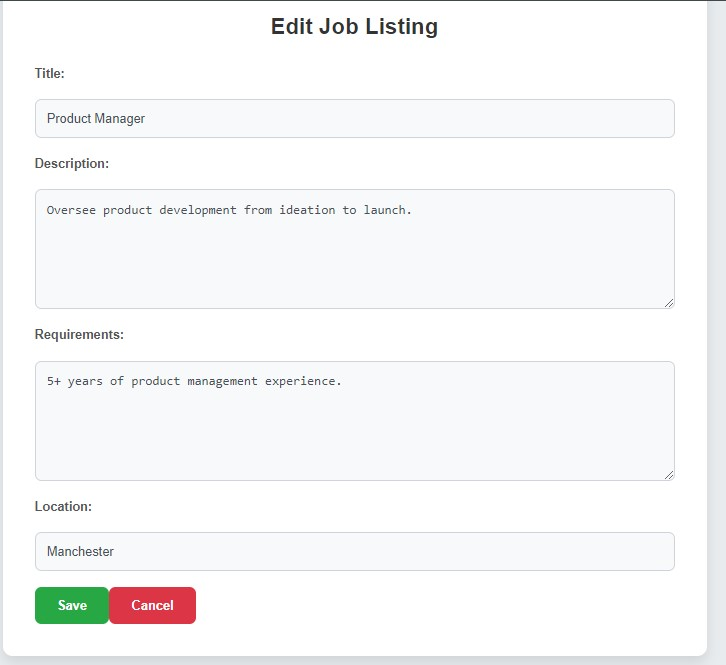
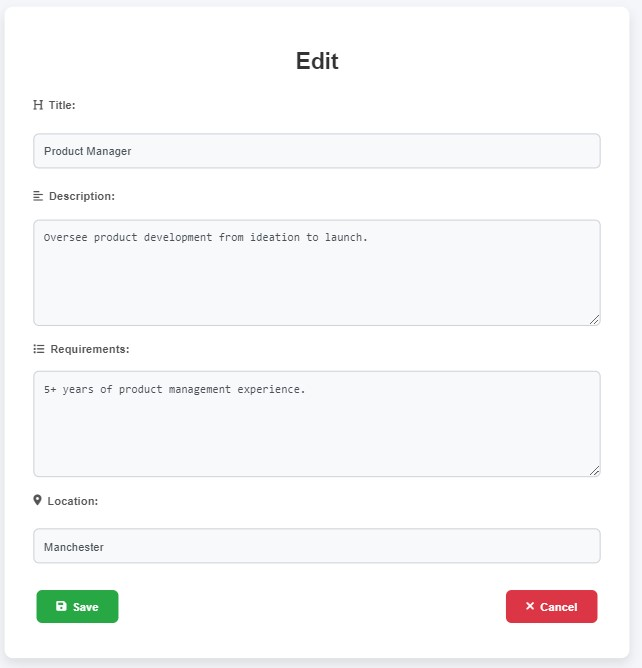
Updated the profile and Job Listing

diff --git a/frontend/src/components/JobListings/Edit_Job/EditJobListing.css b/frontend/src/components/JobListings/Edit_Job/EditJobListing.css
@@ -1,91 +1,118 @@
 /* General Styles */
 body {
-    font-family: 'Arial', sans-serif;
-    background-color: #e9ecef;
-    margin: 0;
-    padding: 0;
+  font-family: 'Arial', sans-serif;
+  background-color: #f4f6f9;
+  margin: 0;
+  padding: 0;
+}
+
+/* Container for the Edit Job Listing Form */
+.edit-job-listing-container {
+  padding: 40px;
+  max-width: 800px;
+  margin: 50px auto;
+  background-color: #ffffff;
+  border-radius: 12px;
+  box-shadow: 0 8px 16px rgba(0, 0, 0, 0.1);
+  animation: fadeIn 0.6s ease-out;
+}
+
+@keyframes fadeIn {
+  from {
+    opacity: 0;
   }
-  
-  /* Container for the Edit Job Listing Form */
-  .edit-job-listing-container {
-    padding: 40px;
-    max-width: 800px;
-    margin: 50px auto;
-    background-color: #ffffff;
-    border-radius: 12px;
-    box-shadow: 0 8px 16px rgba(0, 0, 0, 0.1);
+  to {
+    opacity: 1;
   }
-  
-  /* Title */
-  .edit-job-listing-container h1 {
-    font-size: 28px;
-    color: #333;
-    text-align: center;
-    margin-bottom: 30px;
-    font-weight: 700;
-  }
-  
-  /* Form Styles */
-  .edit-job-listing-form {
-    display: flex;
-    flex-direction: column;
-    gap: 20px;
-  }
-  
-  /* Labels */
-  .edit-job-listing-form label {
-    font-weight: 600;
-    color: #555;
-  }
-  
-  /* Input and Textarea */
-  .edit-job-listing-form input,
-  .edit-job-listing-form textarea {
-    padding: 14px;
-    border: 1px solid #ced4da;
-    border-radius: 8px;
-    width: 100%;
-    box-sizing: border-box;
-    font-size: 16px;
-    color: #495057;
-    background-color: #f8f9fa;
-  }
-  
-  /* Textarea Specific */
-  .edit-job-listing-form textarea {
-    min-height: 150px;
-    resize: vertical;
-  }
-  
-  /* Buttons */
-  .button {
-    padding: 14px 28px;
-    border: none;
-    border-radius: 8px;
-    cursor: pointer;
-    font-size: 16px;
-    font-weight: 600;
-    transition: background-color 0.3s ease, transform 0.3s ease;
-  }
-  
-  .save-button {
-    background-color: #28a745;
-    color: #fff;
-  }
-  
-  .cancel-button {
-    background-color: #dc3545;
-    color: #fff;
-  }
-  
-  /* Button Hover Effects */
-  .save-button:hover {
-    background-color: #218838;
-    transform: scale(1.02);
-  }
-  
-  .cancel-button:hover {
-    background-color: #c82333;
-    transform: scale(1.02);
-  }
-  
+}
+
+/* Title */
+.edit-job-listing-container h1 {
+  font-size: 32px;
+  color: #333;
+  text-align: center;
+  margin-bottom: 30px;
+  font-weight: 700;
+}
+
+/* Form Styles */
+.edit-job-listing-form {
+  display: flex;
+  flex-direction: column;
+  gap: 20px;
+}
+
+/* Labels */
+.edit-job-listing-form label {
+  font-weight: 600;
+  color: #555;
+  display: flex;
+  align-items: center;
+  gap: 8px;
+}
+
+/* Input and Textarea */
+.edit-job-listing-form input,
+.edit-job-listing-form textarea {
+  padding: 14px;
+  border: 1px solid #ced4da;
+  border-radius: 8px;
+  width: 100%;
+  box-sizing: border-box;
+  font-size: 16px;
+  color: #495057;
+  background-color: #f8f9fa;
+  transition: border-color 0.3s;
+}
+
+.edit-job-listing-form input:focus,
+.edit-job-listing-form textarea:focus {
+  border-color: #007bff;
+}
+
+/* Textarea Specific */
+.edit-job-listing-form textarea {
+  min-height: 150px;
+  resize: vertical;
+}
+
+/* Buttons */
+.button {
+  padding: 14px 28px;
+  border: none;
+  border-radius: 8px;
+  cursor: pointer;
+  font-size: 16px;
+  font-weight: 600;
+  display: flex;
+  align-items: center;
+  gap: 8px;
+  transition: background-color 0.3s ease, transform 0.3s ease;
+}
+
+.save-button {
+  background-color: #28a745;
+  color: #fff;
+}
+
+.cancel-button {
+  background-color: #dc3545;
+  color: #fff;
+}
+
+/* Button Hover Effects */
+.save-button:hover {
+  background-color: #218838;
+  transform: scale(1.05);
+}
+
+.cancel-button:hover {
+  background-color: #c82333;
+  transform: scale(1.05);
+}
+
+/* Additional Styles */
+.button-group {
+  display: flex;
+  justify-content: space-between;
+}

diff --git a/frontend/src/components/JobListings/Edit_Job/EditJobListing.component.jsx b/frontend/src/components/JobListings/Edit_Job/EditJobListing.component.jsx
@@ -1,7 +1,9 @@
 import React, { useEffect, useState } from "react";
 import axios from "axios";
 import { useNavigate, useParams } from "react-router-dom";
+import { toast } from "react-toastify";
 import "./EditJobListing.css";
+import "@fortawesome/fontawesome-free/css/all.min.css";
 
 const EditJobListing = () => {
   const { id } = useParams();
@@ -33,6 +35,7 @@ const EditJobListing = () => {
         setLoading(false);
       } catch (error) {
         console.error("Error fetching job listing", error);
+        toast.error("Error fetching job listing");
         setLoading(false);
       }
     };
@@ -54,9 +57,11 @@ const EditJobListing = () => {
           Authorization: `Bearer ${localStorage.getItem("token")}`,
         },
       });
+      toast.success("Job listing updated successfully");
       navigate("/joblistings");
     } catch (error) {
       console.error("Error updating job listing", error);
+      toast.error("Error updating job listing");
     }
   };
 
@@ -66,12 +71,14 @@ const EditJobListing = () => {
 
   return (
     <div className="edit-job-listing-container">
-      <h1>Edit My Job</h1>
+      <h1>Edit</h1>
       {loading ? (
         <p>Loading...</p>
       ) : (
         <div className="edit-job-listing-form">
-          <label htmlFor="title">Title:</label>
+          <label htmlFor="title">
+            <i className="fas fa-heading"></i> Title:
+          </label>
           <input
             type="text"
             id="title"
@@ -79,21 +86,27 @@ const EditJobListing = () => {
             value={formData.title}
             onChange={handleChange}
           />
-          <label htmlFor="description">Description:</label>
+          <label htmlFor="description">
+            <i className="fas fa-align-left"></i> Description:
+          </label>
           <textarea
             id="description"
             name="description"
             value={formData.description}
             onChange={handleChange}
           ></textarea>
-          <label htmlFor="requirements">Requirements:</label>
+          <label htmlFor="requirements">
+            <i className="fas fa-list"></i> Requirements:
+          </label>
           <textarea
             id="requirements"
             name="requirements"
             value={formData.requirements}
             onChange={handleChange}
           ></textarea>
-          <label htmlFor="location">Location:</label>
+          <label htmlFor="location">
+            <i className="fas fa-map-marker-alt"></i> Location:
+          </label>
           <input
             type="text"
             id="location"
@@ -103,10 +116,10 @@ const EditJobListing = () => {
           />
           <div className="button-group">
             <button onClick={handleSave} className="button save-button">
-              Save
+              <i className="fas fa-save"></i> Save
             </button>
             <button onClick={handleCancel} className="button cancel-button">
-              Cancel
+              <i className="fas fa-times"></i> Cancel
             </button>
           </div>
         </div>
